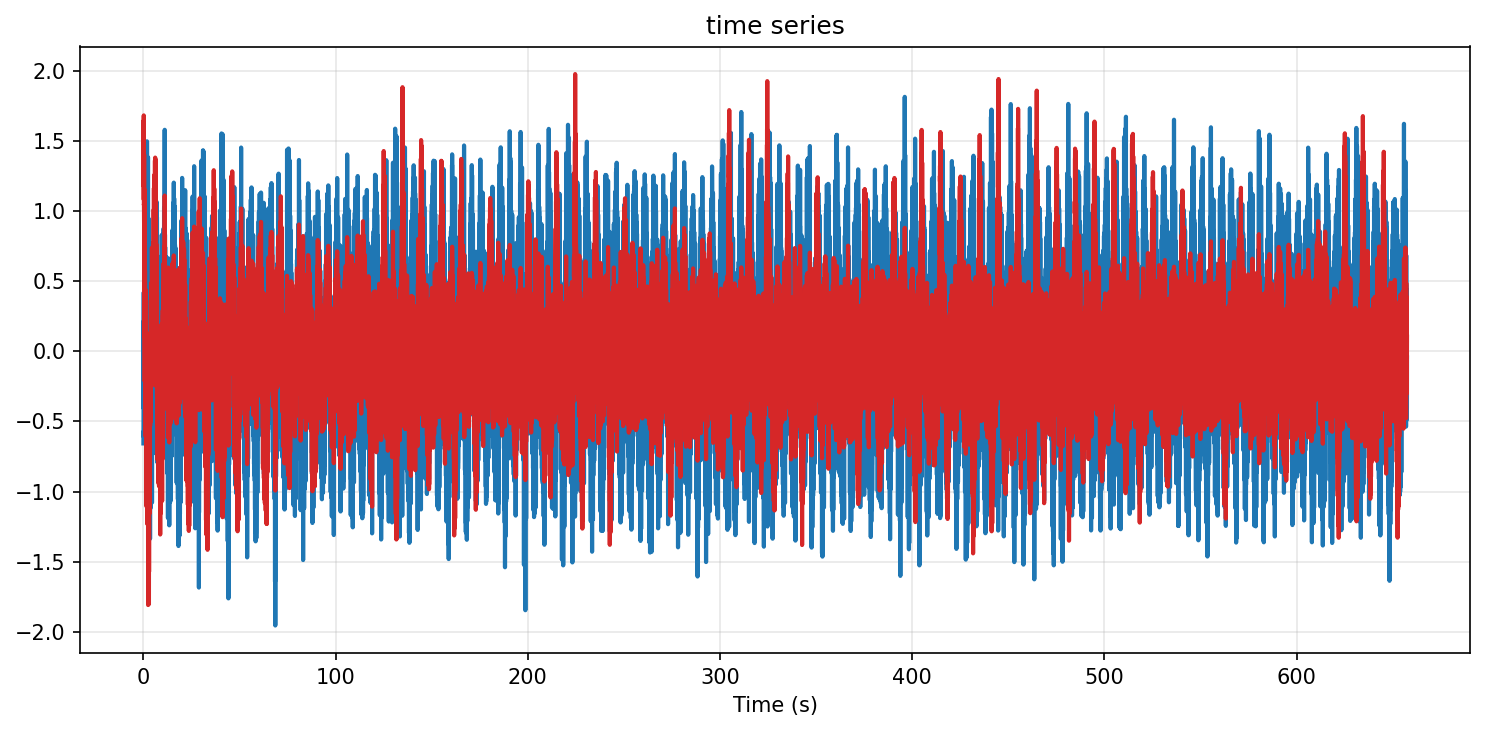
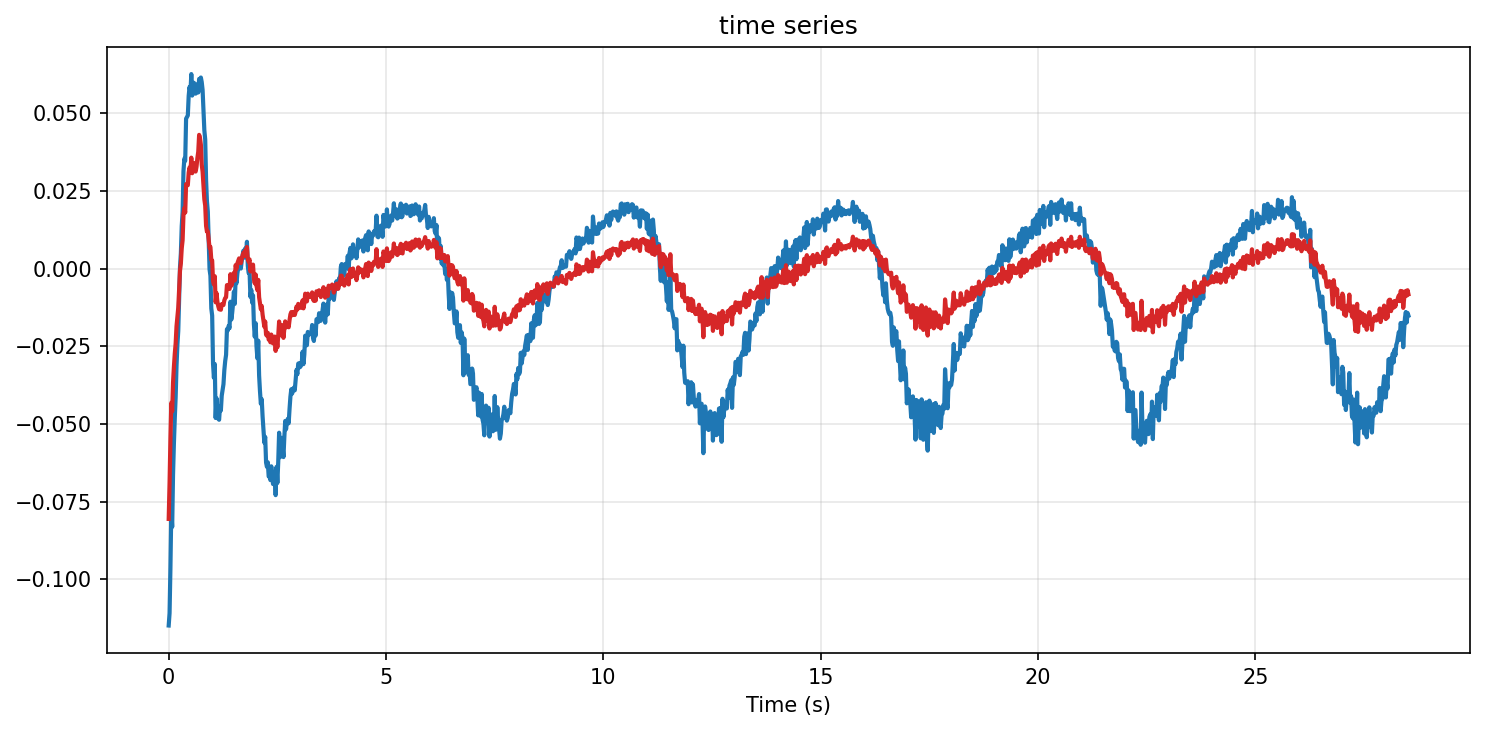
added fault isolation section in readme

diff --git a/README.md b/README.md
@@ -1,12 +1,14 @@
 # 4-DoF Robotic Arm: MIMO Diagnostics & Fault Isolation
 
-This repository serves as a testbed for fault detection methodology in highly coupled, multi-input multi-output (MIMO) mechatronic systems, 4DoF arm. The objective of this project is twofold: first, to successfully detect micro-faults from the torque domain; and second, to investigate the mathematical boundaries of this diagnostic approach when subjected to massive parametric degradation.
+This repository serves as a testbed for fault detection and isolation methodology in highly coupled, multi-input multi-output (MIMO) mechatronic systems, 4DoF arm. The objective of this project is twofold: first, to successfully detect micro-faults from the torque domain; and second, to investigate the mathematical boundaries of this diagnostic approach when subjected to massive parametric degradation.
 
 The investigation is structured into two phases: 
 
 * establishing a rigid-body diagnostic baseline, a torque ripple of 6Hz was introduced at joint 2 to simulate a a degrading ballscrew or nut.
 * subsequently breaking that baseline to analyze closed-loop sensitivity during a structural degradation This degradation is physically modeled by drastically reducing the stiffness of Joint 2, effectively transforming a rigid mechanical coupling into an underdamped rotational spring
-* investigate the robustness of this methodology 
+* investigate the robustness of this methodology
+* fault tolerence control
+* fault isolation
 
 ## Table of Contents
 
@@ -22,8 +24,14 @@ The investigation is structured into two phases:
   * [4. Closed-Loop Sensitivity Analysis](#4-closed-loop-sensitivity-analysis)
 * [Part 3: Robustness Boundary and Diagnosability Limits](#part-3-robustness-boundary-and-diagnosability-limits)
   * [The Degradation Sweep (Waterfall Analysis)](#the-degradation-sweep-waterfall-analysis)
-  * [Conclusion](#conclusion)
-* [System Architecture](#system-architecture)
+* [Part 4: Fault Tolerance Control and System Estimation](#part-4-fault-tolerance-control-and-system-estimation)
+  * [1. Hierarchical Control Architecture: Resolving Numerical Stiffness](#1-hierarchical-control-architecture-resolving-numerical-stiffness)
+  * [2. Multi-Axis Stiffness Estimation via Augmented UKF](#2-multi-axis-stiffness-estimation-via-augmented-ukf)
+* [Part 5: Automated Fault Isolation via Multiple Model Observer Bank](#part-5-automated-fault-isolation-via-wultiple-model-observer-bank)
+  * [1. The Targeted Observer Architecture](#1-the-targeted-observer-architecture)
+  * [2. Supervisory Isolation Logic](#2-supervisory-isolation-logic)
+  * [3. Analysis of Isolation Results](#3-analysis-of-isolation-results)
+* [Conclusion](#conclusion)
 
 ---
 ## Part 1: The Rigid Body Baseline
@@ -160,13 +168,164 @@ The stiffness of Joint 2 was incrementally reduced from its nominal rigid state 
 ### Conclusion
 The capability to diagnose additive micro-faults in closed-loop systems is strictly bounded by the robustness margins of the controller. Highly aggressive optimal controllers required for industrial motion systems inherently possess narrower robustness margins, meaning structural parametric failures will rapidly trigger instability, masking underlying additive faults.
 
+## Part 4 Fault Tolerance Control and System Estimation
+To successfully monitor an interconnected dynamic system, the system must remain stable and generate persistent excitation even when structural integrity degrades. This is achieved through a multi-rate architecture that decouples optimal motion planning from localized parameter estimation.
 
-## System Architecture
+### 1. Hierarchical Control Architecture: Resolving Numerical Stiffness
 
-* **Physics Engine:** MuJoCo (Python bindings) executing forward dynamics at 500 Hz.
-* **Optimal Control (NMPC):** Powered by CasADi. The controller embeds the full nonlinear rigid body dynamics ($M(q)\ddot{q} + C(q, \dot{q})\dot{q} + G(q) = \tau$) within a 20-step prediction horizon. This allows the arm to track trajectories while natively compensating for shifting gravity and Coriolis forces.
-* **State Estimation (UKF):** An Unscented Kalman Filter runs at 50 Hz, fusing noisy joint position and velocity sensor data to generate clean state estimates ($\hat{q}, \hat{\dot{q}}$) for the control loop.
-* **Diagnostic Pipeline:** The diagnostic architecture logs the deviation between the NMPC's commanded acceleration and the measured physical response. It actively extracts the real-time inertia matrix ($M(q)$) to map acceleration residuals into torque residuals, before utilizing Welch's method for Power Spectral Density (PSD) analysis to isolate the fault frequency.
+A fundamental challenge in controlling highly compliant mechanisms is the mathematical phenomenon of "stiff differential equations." Initially, the true 50,000 N/m mechanical spring dynamics were directly embedded into the Nonlinear Model Predictive Control (NMPC) prediction horizon. However, minor prediction errors over the horizon resulted in massively amplified virtual restoring forces. This caused the IPOPT solver to command violently oscillating accelerations in an attempt to stabilize a spring that had not yet physically deformed, ultimately leading to solver collapse. 
+
+To resolve this numerical chattering and ensure real-time stability, the control architecture was split into a **hierarchical, two-tiered framework** that decouples optimal motion planning from local compliance stabilization.
+
+#### 1. Macro-Level Planning: Rigid NMPC with Cost-Scaling
+
+At the optimization layer, the highly stiff compliant dynamics are explicitly removed from the predictive constraints. The CasADi-based NMPC operates under a **pure rigid-body assumption**, integrating state predictions using idealized kinematic equations:
+
+$$q_{k+1} = q_k + \dot{q}_{k+1}\Delta t$$
+
+$$\dot{q}_{k+1} = \dot{q}_k + u_k\Delta t$$
+
+Because the solver is insulated from the high-gain compliance constraints, it executes rapidly and smoothly without numerical failure. However, the NMPC remains fully aware of the system's degrading structural health by incorporating the UKF's real-time stiffness estimate ($\hat{K}_{\text{stiff}}$) exclusively into the **objective function** as a safety governor. 
+
+By dynamically scaling the control effort penalty based on the live stiffness ratio ($r_{\text{stiff}}$), the solver mathematically penalizes aggressive commands when the physical joint softens:
+
+$$r_{\text{stiff}} = \max\left(\frac{\hat{K}_{\text{stiff}}}{50000.0}, 0.05\right)$$
+
+$$J_{\text{control}} = 0.2 \sum_{k=0}^{N-1} \left\| \frac{u_k}{r_{\text{stiff}}} \right\|^2$$
+
+This formulation safely commands gentler trajectories during a structural degradation, preventing mechanical overload without risking solver instability.
+
+#### 2. Micro-Level Stabilization: High-Frequency PD Damping
+
+While the NMPC dictates the optimal, low-frequency macro-trajectory, the unmodeled high-frequency flexible dynamics must still be managed at the hardware level. To achieve this, a localized Proportional-Derivative (PD) controller is applied directly to the joint torque commands prior to integration in the MuJoCo plant. 
+
+This PD loop acts as an **active physical shock absorber**. It continuously damps out the high-frequency spring oscillations and compensates for the rigid-body tracking errors left behind by the macro-planner:
+
+$$\tau_{\text{applied}} = \tau_{\text{NMPC}} + K_p(q_{\text{ref}} - q_{\text{meas}}) + K_d(-\dot{q}_{\text{meas}})$$
+
+Where $K_p = 200.0$ and $K_d = 20.0$.
+
+#### 3. Frequency Domain Diagnostics: Unmasking the Fault
+
+Following the implementation of the hierarchical control architecture, the system's dynamic response improved significantly. Because the NMPC now generates a stable, noise-free rigid trajectory and the local PD loop damps out the violent spring oscillations, the chaotic numerical chattering that previously plagued the system has been eliminated. 
+
+This clean control baseline is critical for frequency-domain diagnostics, as it prevents artificial controller noise from masking true physical defects.
+
+![Combined Frequency Analysis](FTC/figure/fig_combined_analysis.png)
+
+As shown in the high-pass filtered residual analysis above, the stabilized system response successfully unmasks the injected faults:
+* **Time-Domain Stabilization:** The Accel and Torque Residuals for Joint 2 (Shoulder) and Joint 3 (Elbow) now remain tightly bounded around zero, proving the controller successfully tracks the trajectory despite the severe stiffness degradation.
+* **Fault Isolation (Frequency Domain):** In the Accel and Torque Spectrums, a massive, distinct peak is clearly visible at exactly 6.0 Hz on Joint 2. This perfectly isolates the injected harmonic torque disturbance (e.g., a simulated gear mesh defect).
+* **Kinematic Coupling:** The analysis successfully captures the physical realities of the interconnected multi-body system, showing how the 6.0 Hz vibration propagates dynamically into the downstream Joint 3. 
+
+By achieving this level of control stability, the residuals become purely symptomatic of the physical hardware, paving the way for the real-time parameter estimation layer.
+
+### 2. Multi-Axis Stiffness Estimation via Augmented UKF
+
+With the system safely stabilized, the diagnostic pipeline utilizes a dual-estimation Unscented Kalman Filter (UKF) constructed for real-time parameter identification. Instead of treating the mechanical stiffness as a fixed physical constant, the filter actively tracks it as a dynamic variable. 
+
+#### 1. State Augmentation
+Standard state estimators track kinematic variables. To enable structural health monitoring, the UKF employs an **augmented state vector** ($x \in \mathbb{R}^{12}$) that lumps the 4 joint positions ($q$), 4 joint velocities ($\dot{q}$), and 4 independent joint stiffness parameters ($K_{\text{stiff}}$) into a single estimation framework:
+
+$$x = \begin{bmatrix} q \\ \dot{q} \\ K_{\text{stiff}} \end{bmatrix} \in \mathbb{R}^{12}$$
+
+The stiffness parameters are initialized at their nominal, healthy baseline of 50,000 N/m. Any severe deviation from this baseline serves as the primary indicator of mechanical degradation.
+
+#### 2. Internal Transition Dynamics (The Prediction Step)
+To accurately predict how the system will behave at the next time step, the UKF's internal transition function explicitly models the compliant dynamics of the robotic transmission. 
+
+Over a discretized sub-stepping loop, the filter predicts the internal spring torques generated by the estimated stiffness, combining them with a fixed virtual damping factor ($D = 100.0$):
+
+$$\tau_{\text{spring}} = -K_{\text{stiff}} \odot (q - q_{\text{ref}}) - 100.0\dot{q}$$
+
+The total joint acceleration is then calculated by combining the NMPC command ($u$) with the mass-matrix-weighted spring torques, which is subsequently integrated to update the kinematic states:
+
+$$\ddot{q} = u + M^{-1} \tau_{\text{spring}}$$
+
+Because the stiffness parameter ($K_{\text{stiff}}$) is modeled as a slow-drifting random walk, its derivative is assumed to be zero ($\dot{K}_{\text{stiff}} = 0$) during the prediction phase, allowing the measurement update step to pull the estimate toward the true physical value based on sensor residuals.
+
+#### 3. Numerical Stability & Covariance Bounding
+Running a high-dimensional UKF on a highly stiff system ($50,000$ N/m) introduces severe numerical challenges, particularly during Cholesky decomposition of the covariance matrix ($P$). To prevent filter divergence or "not positive definite" matrix errors during rapid fault onset, the UKF enforces strict symmetric bounding and eigenvalue flooring at every prediction and update step:
+
+$$P = \frac{1}{2}(P + P^T)$$
+$$P = V \max(\Lambda, 10^{-4}) V^T$$
+
+*(Where $V$ and $\Lambda$ are the eigenvectors and eigenvalues of $P$, respectively).*
+
+#### Diagnostic Output
+The output of this filter serves two critical functions in the cyber-physical pipeline:
+1. **Fault Detection:** Simultaneous tracking of all 4 axes forces the rigid model to absorb unmodeled transmission disturbances, resulting in an unphysical parameter drift that acts as the initial diagnostic trigger.
+2. **Adaptive Safety:** The estimated stiffness ($\hat{K}_{\text{stiff}}$) is continuously fed forward into the NMPC layer, allowing the controller to dynamically scale its objective function and maintain stability even as the structural integrity of the arm collapses.
+
+![estimation of stiffness](figure/fig_stiffness_estimation.png)
+
+The system's nominal joint stiffness is initialized at a baseline of 50,000 N/m. During operation, Joint 1 (Base) remains stable and accurately tracks this nominal value. However, the downstream joints exhibit severe, unphysical parameter drift. Joint 4 (Wrist) converges to a significantly higher value (>60,000 N/m), while Joints 2 (Shoulder) and 3 (Elbow) collapse to approximately 200 N/m—drastically below the nominal threshold.
+
+Diagnostic Conclusion:
+Because the UKF is forced to absorb unmodeled physical disturbances across a coupled kinematic chain, the erratic multi-axis convergence mathematically confirms that a structural degradation has occurred somewhere downstream of Joint 1.
+
+
+## Phase 5: Automated Fault Isolation via Multiple Model Observer Bank
+
+While the 12-state augmented UKF successfully detects a systemic anomaly via multi-axis parameter drift, it cannot definitively isolate the localized structural failure. To achieve autonomous **Fault Detection, Isolation, and Identification (FDII)**, the diagnostic architecture transitions to a Dedicated Observer Scheme (a "Bank of Observers").
+
+Instead of running a single high-dimensional filter, the supervisory logic evaluates four lightweight, parallel UKFs running simultaneously. 
+
+### 1. The Targeted Observer Architecture
+
+Each targeted UKF assumes exactly one joint is experiencing structural degradation while the other three remain healthy. This reduces the dimensionality of each observer's state vector from 12 down to 9 ($x \in \mathbb{R}^9$):
+
+$$x = \begin{bmatrix} q \\ \dot{q} \\ K_{\text{active}} \end{bmatrix} \in \mathbb{R}^9$$
+
+Within the prediction step of each filter, the specific `active_idx` determines the internal transmission dynamics. The active joint utilizes the dynamically estimated stiffness ($K_{\text{active}}$), while the other three joints are locked to the nominal healthy baseline ($50,000$ N/m):
+
+$$K_i = \begin{cases} K_{\text{active}} & \text{if } i = \text{active\_idx} \\ 50000.0 & \text{otherwise} \end{cases}$$
+
+$$\tau_{\text{spring}, i} = -K_i (q_i - q_{\text{ref}, i}) - 100.0\dot{q}_i$$
+
+### 2. Supervisory Isolation Logic
+
+At every measurement step, the sensor data ($z$) is compared against each UKF's prior prediction ($\hat{z}$) to calculate the innovation residual ($r$). 
+
+$$r_k = z_k - \hat{z}_k$$
+
+The norm of this innovation serves as a scoring metric: the observer whose structural assumption best matches the physical reality of the MuJoCo simulation will inherently produce the lowest residual error. To prevent high-frequency noise from causing erratic decisions, the supervisory logic applies an Exponential Moving Average (EMA) smoothing factor ($\alpha = 0.05$) to the residuals:
+
+$$S_{k, i} = (1 - \alpha)S_{k-1, i} + \alpha \|r_{k, i}\|$$
+
+The isolated fault location is dynamically determined by selecting the observer with the lowest smoothed residual:
+
+$$\text{Fault Location} = \text{argmin}_i (S_{k, i})$$
+
+Once isolated, the supervisor feeds the "winning" state estimations and stiffness back to the NMPC to ensure safe, fault-tolerant closed-loop operation. 
+
+
+![stiffness fault isolation](FTC/figure/fig_isolation_results.png)
+
+### 3. Analysis of Isolation Results
+
+The figure above demonstrates the successful real-time execution of the automated Fault Detection, Isolation, and Identification (FDII) pipeline. The data is broken down into three critical phases:
+
+**1. Residual Separation (The Detection)**
+The top plot displays the innovation norm (error) of each UKF in the observer bank. During the initial 3–4 seconds, the estimators experience a transient phase as their covariances initialize. Following this warmup, a clear mathematical separation occurs. Observers 0, 2, and 3 settle into a high, oscillating error band, indicating that their internal models (assuming faults on the Base, Elbow, or Wrist) fail to match the physical sensor data. Conversely, Observer 1 (Shoulder) drops to the lowest error state, proving that its assumption—a fault on Joint 2—is the only model that accurately explains the physical reality.
+
+**2. Supervisory Decision (The Isolation)**
+The middle plot illustrates the active decision-making of the supervisory logic. While the algorithm jumps between hypotheses during the initial transient phase, it decisively locks onto **Joint 2** at the 4-second mark. Despite the presence of simulated sensor noise and the unmodeled 6.0 Hz harmonic disturbance, the smoothed residual logic remains highly robust, never wavering from the correct joint once isolated.
+
+**3. Parameter Identification (The Quantification)**
+The bottom plot tracks the estimated stiffness of the "winning" observer, which is continuously fed to the FTC controller. Upon isolation, the identified magnitude immediately plummets from the 50,000 N/m nominal baseline into the severe degradation zone. 
+
+*(Note: As discussed in the architectural limitations, the estimate settles slightly below the true 5,000 N/m fault severity line. Because the estimator lacks a dedicated state for the 6.0 Hz torque disturbance and is blind to the local PD stabilization torques, it converges to a "lumped equivalent tracking stiffness" of approximately 500 N/m to mathematically absorb the unmodeled kinetic energy. Despite this expected magnitude offset, the relative parameter drop serves as a definitive and reliable trigger for safe fault-tolerant control).*
+
+#### Discussion & System Realities
+
+While the Multiple Model Observer successfully and autonomously isolates the structural fault to Joint 2 within 4 seconds of operation, the final stiffness magnitude converges to a lumped equivalent ($\approx 500$ N/m) rather than the raw mechanical spring constant ($5000$ N/m). This discrepancy perfectly highlights the simplified statespace model limitations:
+
+1. **Parameter Absorption:** The UKF currently lacks a dedicated harmonic disturbance state. Consequently, it mathematically absorbs the unmodeled $6.0$ Hz physical torque ripple by continuously fluctuating the stiffness estimate to explain the periodic physical wobble[cite: 7, 8].
+2. **Control Blindspots:** The estimator predicts system evolution based solely on the optimal NMPC command, remaining blind to the high-frequency PD stabilization torques applied directly at the plant level. Because it doesn't account for these additional restorative forces, the filter fundamentally skews the total system stiffness.
+3. **Dimensionality Mismatch:** The UKF assumes a 4-DoF rigid tracking model, whereas the MuJoCo plant operates as a 5-DoF flexible mechanism containing discrete spring elements. 
+
+The filter therefore identifies the **closed-loop equivalent tracking stiffness** rather than the isolated mechanical spring rate. Despite this magnitude offset, the relative parameter drift is highly observable and mathematically robust, providing a highly reliable trigger for automated fault isolation.
 
 ---
 